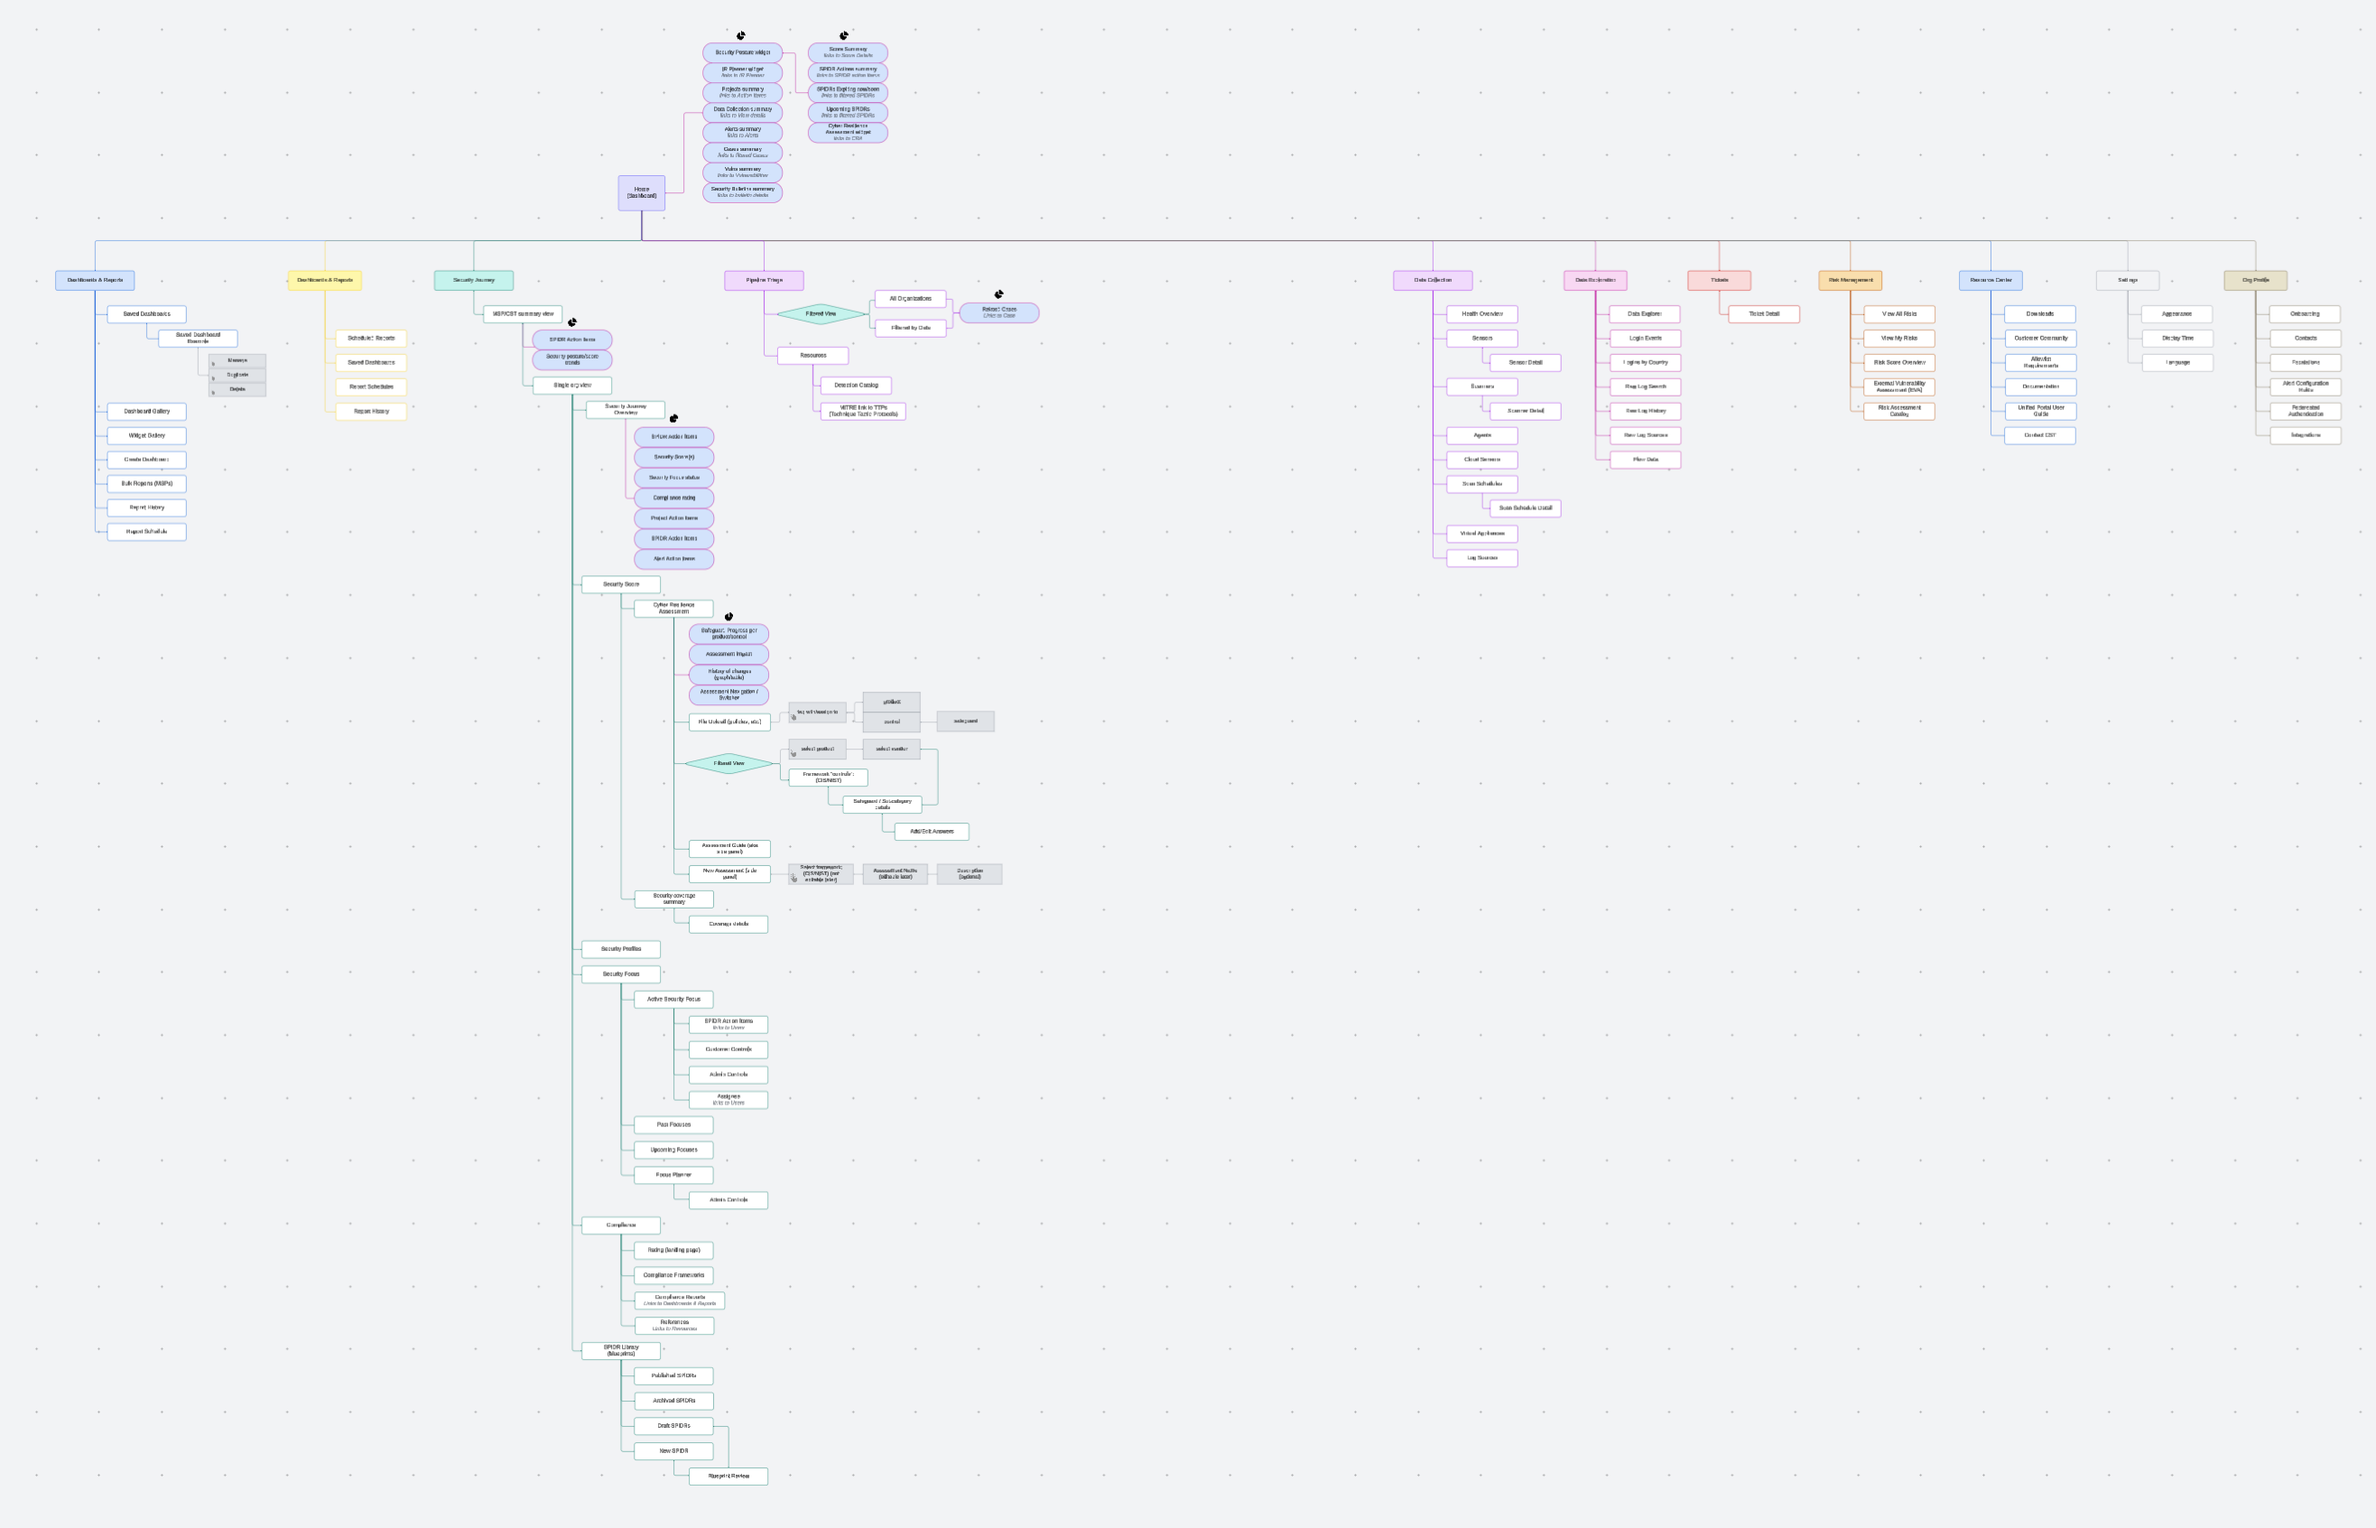
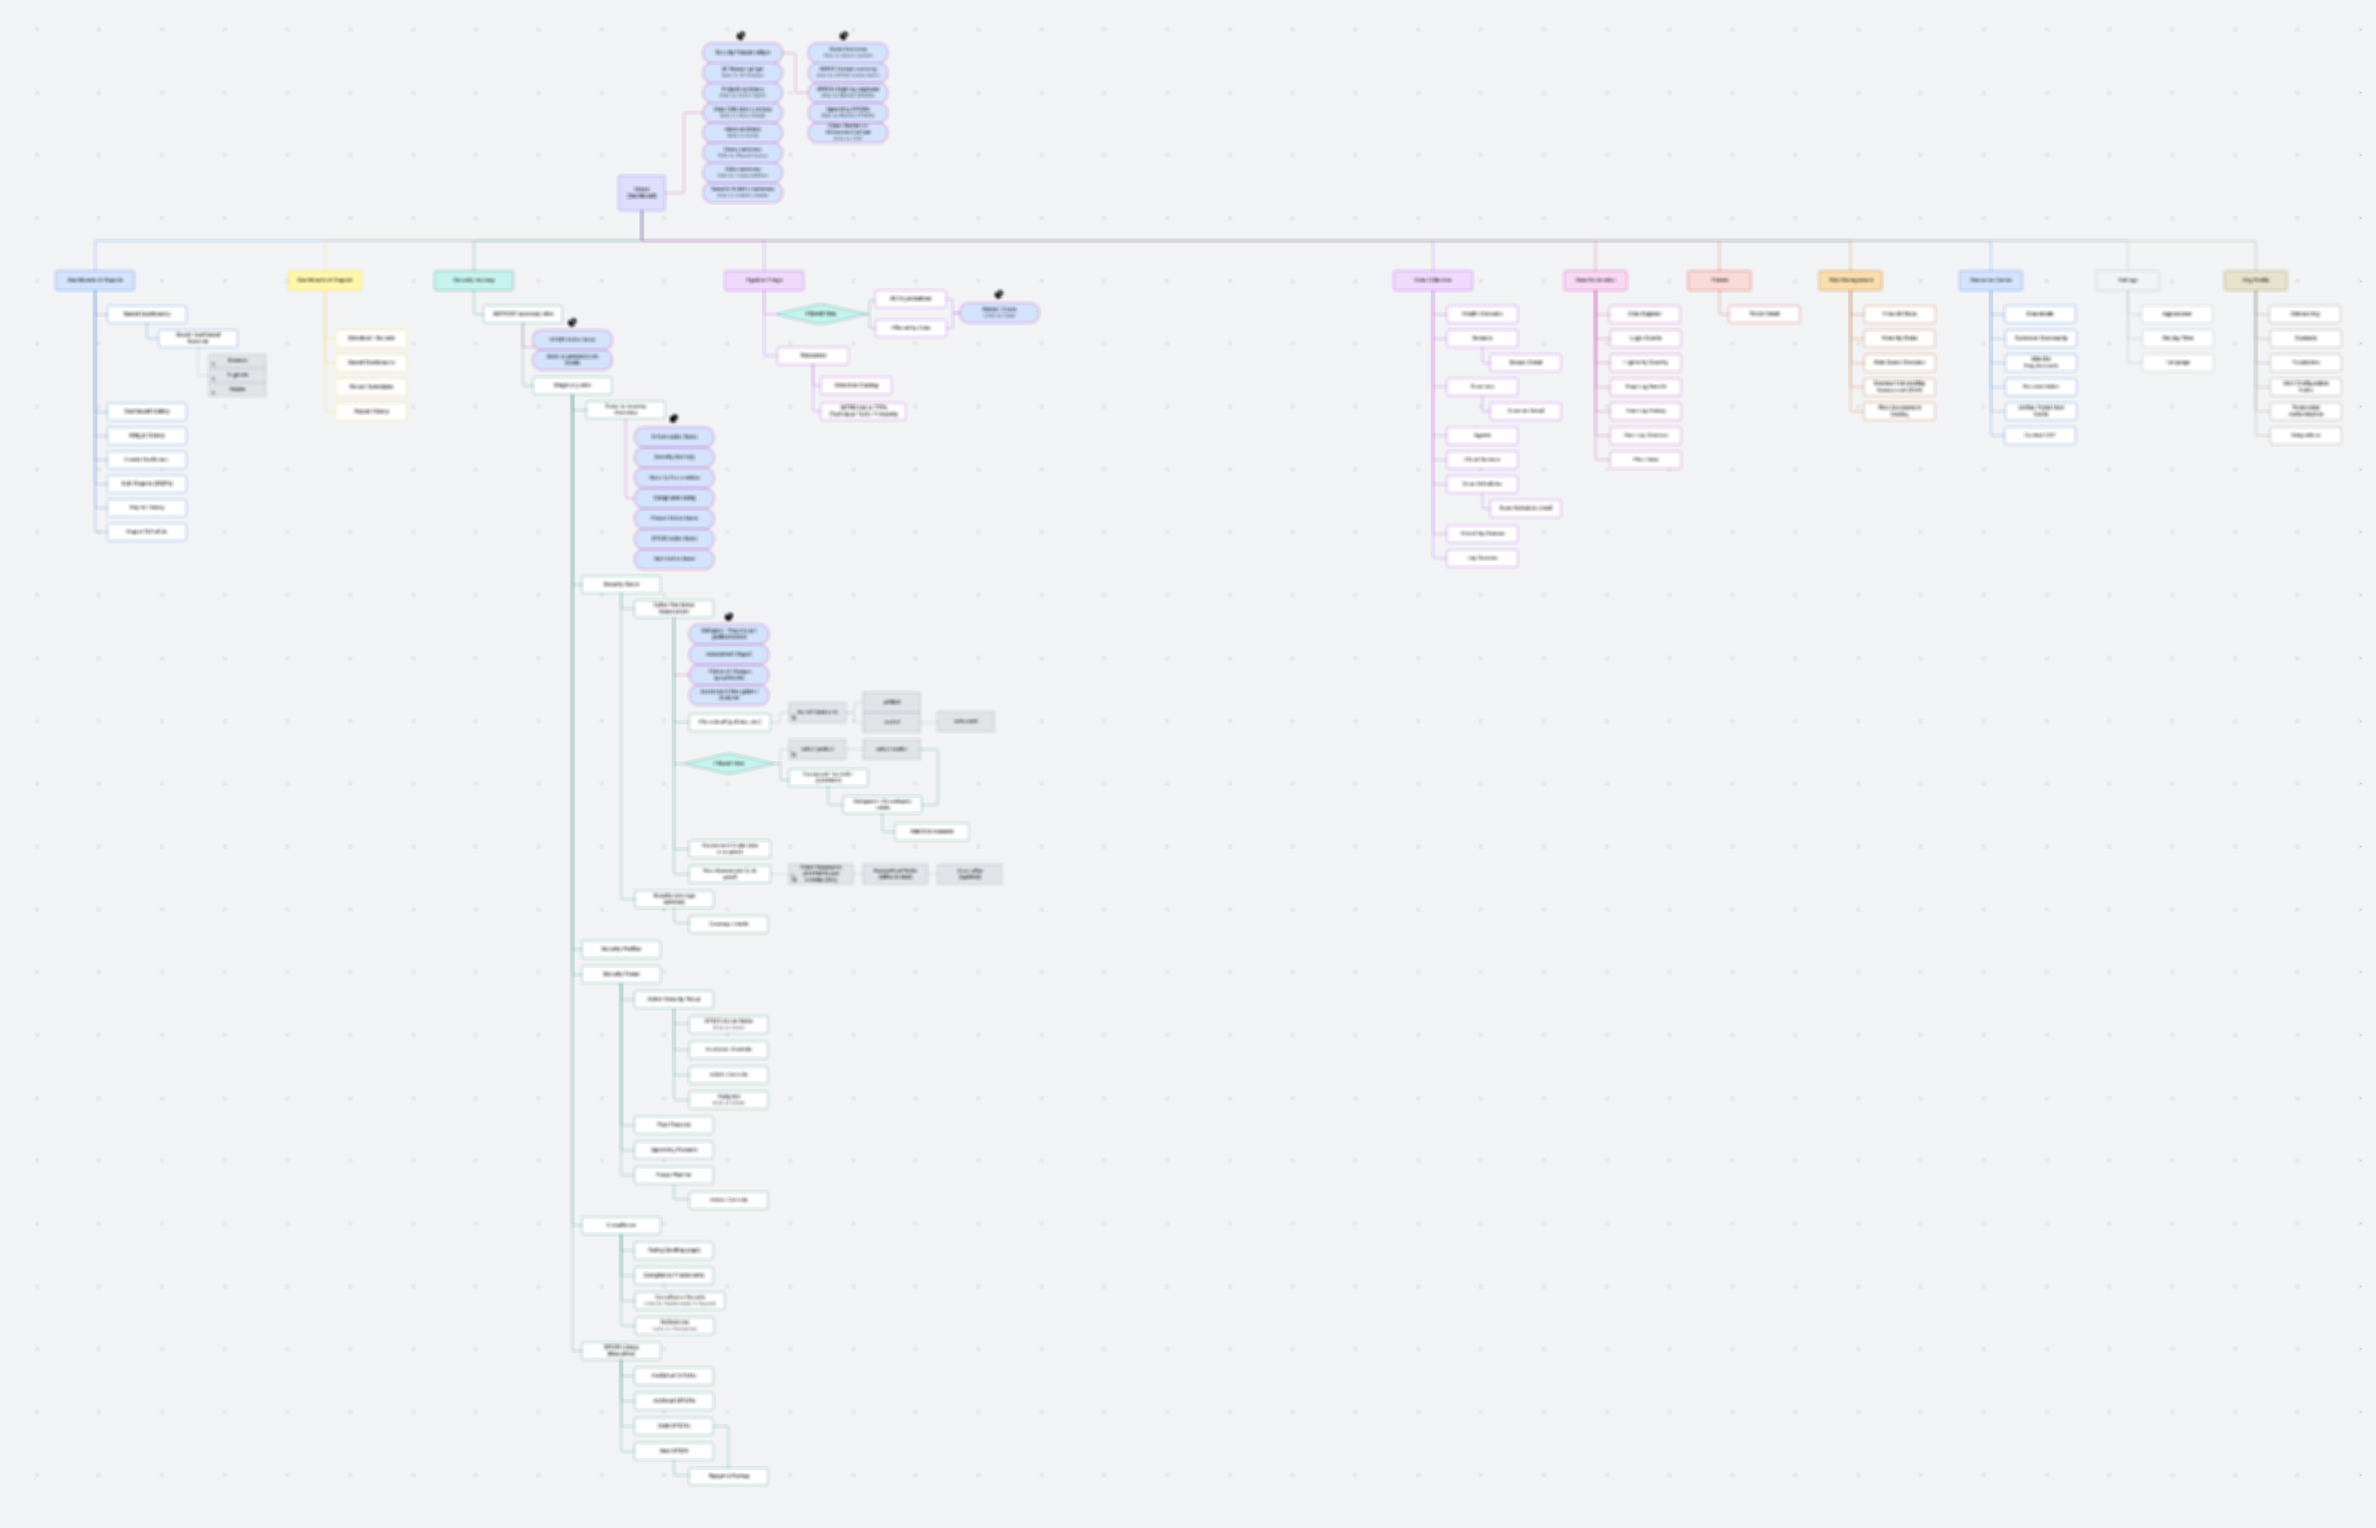
updatesimages and results in quality section of case study

diff --git a/src/views/portfolio/DesignSystem.js b/src/views/portfolio/DesignSystem.js
@@ -11,6 +11,8 @@ import FenrirComponentBreakdown from "assets/portfolio/fenrir component breakdow
 import FenrirPatternExample from "assets/portfolio/pattern example.png";
 import FenrirHowto from "assets/portfolio/Fenrir DataGrid demo.mp4";
 import FenrirComponents from "assets/portfolio/fenrir-components.png";
+import FenrirDesignSpeed from "assets/portfolio/fenrir-design-speed.png";
+import FenrirQuality from "assets/portfolio/quality-cards.png";
 
 const CaseStudy = () => {
     return (
@@ -68,7 +70,7 @@ const CaseStudy = () => {
 
                     <div className="full-width">
                         <img src={InformationArchitecture} alt="Information Architecture diagram" />
-                        <span className="image-caption">Information Architecture (IA) diagram</span>
+                        <span className="image-caption">Information Architecture (IA)</span>
                     </div>
 
                     <div className="article">
@@ -149,6 +151,7 @@ const CaseStudy = () => {
 
                     <div className="full-width">
                         <video width="1000" height="600" controls src={FenrirHowto} alt="Figma how-to with Fenrir" />
+                        <span className="image-caption">Tutorial for using Fenrir in Figma</span>
                     </div>
 
                     <div className="article">
@@ -198,24 +201,34 @@ const CaseStudy = () => {
                             <li>Cut onboarding time for new designers by 5 weeks.</li>
                         </ul>
                         <h3>Adoption Momentum</h3>
-                        <p>Since the launch of Fenrir v2, adoption has steadily increased across Arctic Wolf's product teams. The system is now the default starting point for new designs, with over 234,881 component insertions in Figma over the past year. This represents a significant shift from occasional use to becoming the standard for new product experiences.</p>
+                        <p>Since the launch of Fenrir v2, adoption has steadily increased across Arctic Wolf's product teams. The system is now the default starting point for new designs, with over 230,000 component insertions in Figma over the past year. This marks the shift from occasional use to a company-wide standard for building product experiences.</p>
                     </div>
 
                     <div className="full-width">
                         <img src={FenrirComponents} alt="Fenrir components usage" />
+                        <span className="image-caption">Fenrir v1 (white) vs Fenrir v2 (blue) component insertions</span>
                     </div>
 
                     <div className="article">
                         <h3>Design Delivery Speed</h3>
-                        <p>The introduction of Fenrir has consistently reduced design delivery times from months to weeks, with v2 enabling teams to deliver high-quality designs up to 3x faster than before.</p>
+                        <p>Fenrir has transformed delivery timelines from unpredictable months to predictable weeks. With v2, teams deliver high-quality designs up to 3x faster.</p>
                         <ul>
                             <li><b>Before Fenrir:</b> Several weeks to months per feature, with no predictable timelines.</li>
                             <li><b>Fenrir v1:</b> Reduced to 2-5 weeks depending on scope.</li>
                             <li><b>Fenrir v2:</b> Reduced further to 1-3 weeks, enabling faster iteration and delivery.</li>
                         </ul>
+                    </div>
 
+                    <div className="full-width">
+                        <img src={FenrirDesignSpeed} alt="Design delivery speed improvements" />
+                    </div>
+
+                    <div className="article">
                         <h3>Quality & Consistency</h3>
-                        <p>With Fenrir v2, shared tokens and variables for spacing, colors, and typography are now consistently applied across both design and development. This has led to a measurable increase in product consistency and reduced variance between design and implementation. From a development perspective, only 14 active bugs are currently logged for Fenrir, reflecting a more stable and reliable system. While historical bug volume is harder to quantify, early v2 and v1 phases saw more frequent issues, especially related to mismatched designs and components — a challenge that has been significantly reduced.</p>
+                        <p>Fenrir v2 introduced shared tokens and variables for spacing, colors, and typography across both design and development. This alignment has improved consistency, reduced variance between design and implementation, and stabilized delivery. Currently only 14 active bugs are logged against Fenrir, compared to the more frequent mismatches and issues seen in earlier phases.</p>
+
+                        <img src={FenrirQuality} alt="Quality and consistency improvements" />
+                        <span className="image-caption">Quality improvements as a result of Fenrir</span>
 
                         <h2>What's Next</h2>
                         <p>Fenrir will continue to evolve as a living, adaptable system that grows with the organization's needs. Key focus areas moving forward include:</p>
